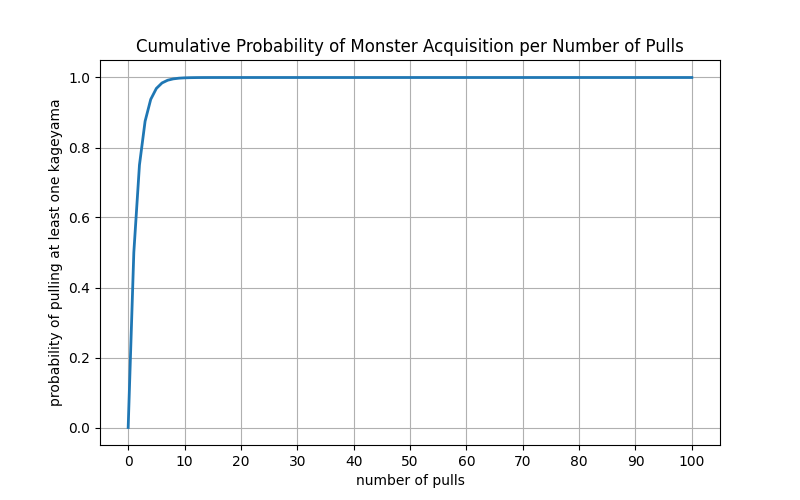
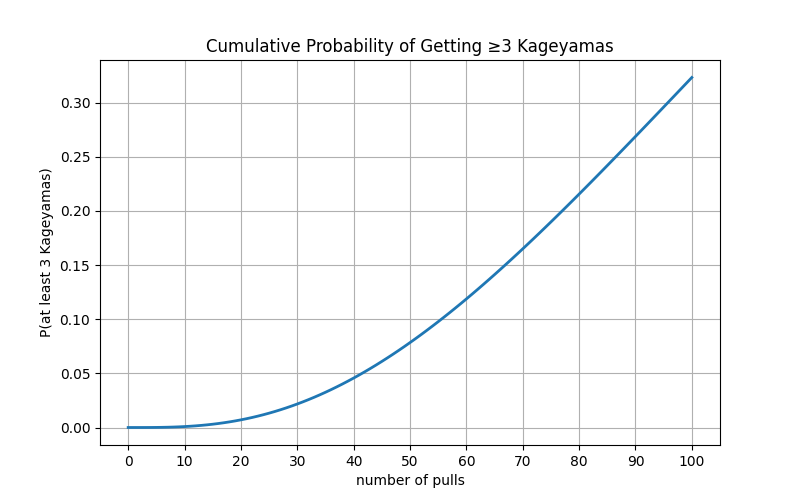
implement multiple kageyama logic

diff --git a/test1.py b/test1.py
@@ -1,26 +1,36 @@
 import matplotlib.pyplot as plt
 import numpy as np
+from math import comb
+
+def cumulative_prob_at_least_k(n, p, k):
+    # 1 - sum of probabilities from X = 0 to k-1
+    return 1 - sum(comb(n, i) * (p ** i) * ((1 - p) ** (n - i)) for i in range(k))
 
 try:
-    # Take user input from command line
-    probability_percent = float(input("Enter probability of pulling Kageyama (in %): "))
-    p = probability_percent / 100  # convert to decimal
-
+    # Input from user
+    p_percent = float(input("Enter probability of pulling Kageyama (in %): "))
+    k = int(input("Enter desired number of Kageyamas: "))
+    
+    p = p_percent / 100
     if not (0 < p < 1):
         raise ValueError("Probability must be between 0 and 100")
+    if k < 1:
+        raise ValueError("Number of Kageyamas must be at least 1")
+    
+    # Generate pulls from 0 to 100
+    x = np.arange(0, 101)  # integer pulls only
+    y = [cumulative_prob_at_least_k(n, p, k) if n >= k else 0 for n in x]
 
-    x = np.linspace(0, 100, 101)
-    y = 1 - (1 - p) ** x
-
+    # Plotting
     plt.figure(figsize=(8, 5))
     plt.plot(x, y, linewidth=2)
     plt.xticks(np.arange(0, 101, 10))
     plt.xlabel('number of pulls')
-    plt.ylabel('probability of pulling at least one kageyama')
-    plt.title('Cumulative Probability of Monster Acquisition per Number of Pulls')
+    plt.ylabel(f'P(at least {k} Kageyama{"s" if k > 1 else ""})')
+    plt.title(f'Cumulative Probability of Getting ≥{k} Kageyama{"s" if k > 1 else ""}')
     plt.grid(True)
     plt.savefig("gacha_chart.png")
     plt.show()
 
 except ValueError as e:
-    print(f"Invalid input: {e}")
+    print(f"Input error: {e}")
